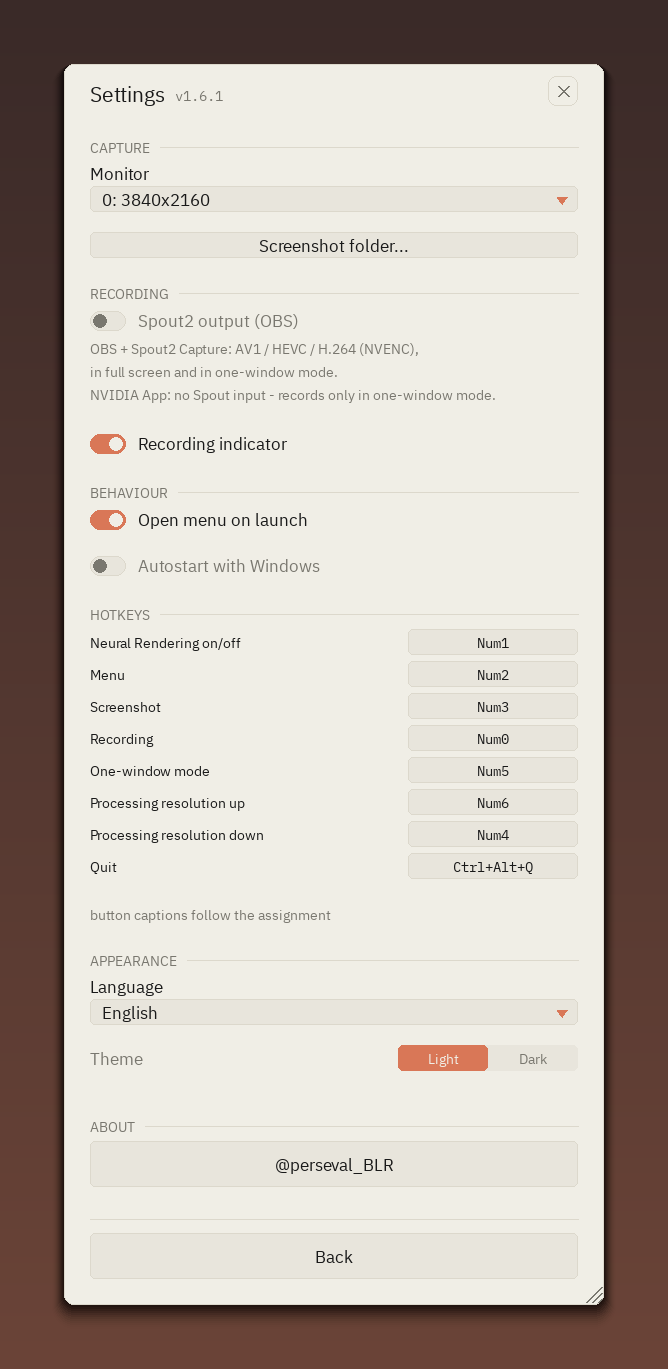
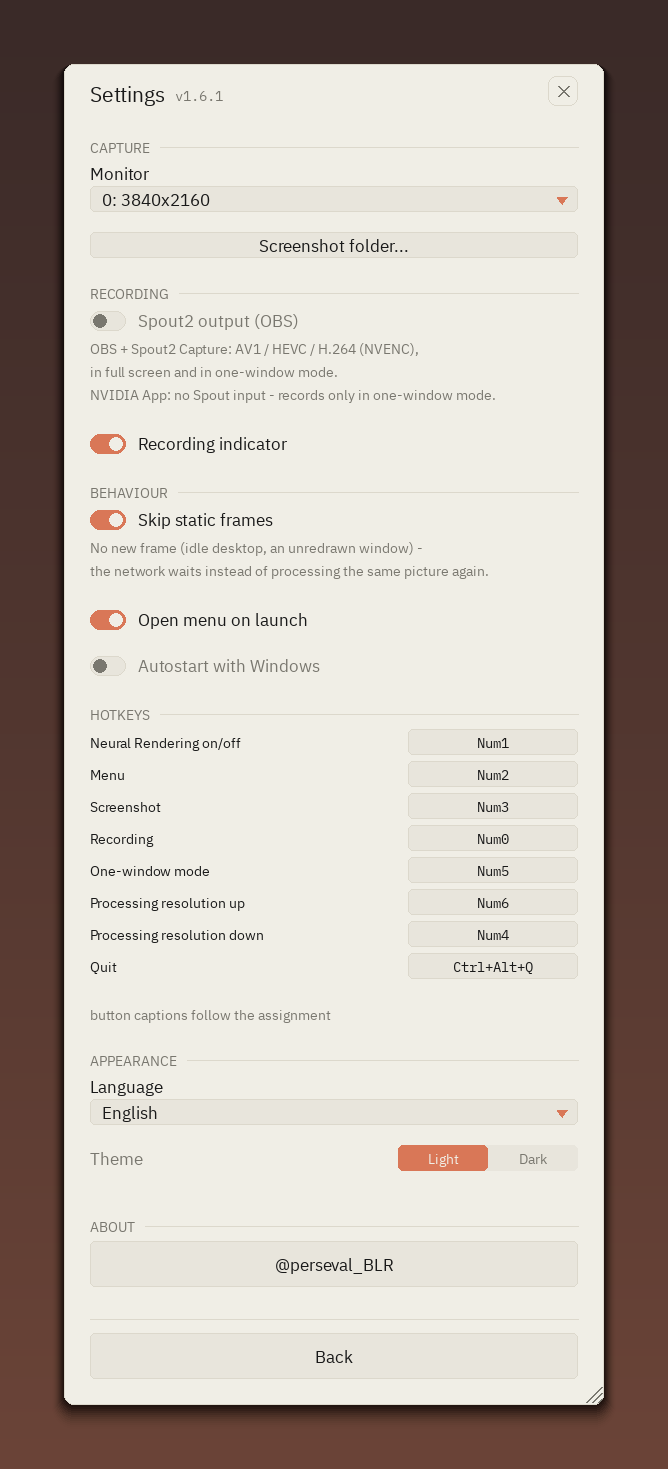
ui: the sliders stay on the page, Quit is one centred line, skip static moves
Three corrections to yesterday's layout, all from using it.

**The fine-tuning fold goes.** Folding the four parameter sliders away made
the page shorter and the sliders harder to reach - they are the point of the
profile section, not an advanced corner of it. They are back on the page and
the fold, its item kind and its string are gone.

**Quit is its name, centred.** The key and the explanation under it turned
one button into a three-line paragraph in the footer. The danger edge it got
yesterday already says what kind of button it is.

**Skip static frames moves to the settings**, into Behaviour. It is set once
and forgotten, which is what that page is for; the main page keeps what a
session actually touches.

66 checks green, GUI cycle clean.

diff --git a/overlay_ui.py b/overlay_ui.py
@@ -295,9 +295,6 @@ class OverlayMenu:
         self.hotkeys: dict = {}
         self._sections: list = []
         self._hint_rel = pygame.Rect(0, 0, 0, 0)
-        #: Is the fine-tuning fold open? The menu's own state - it never
-        #: leaves and is not worth a line in config.json.
-        self.tuning_open = False
         self._rule_rel = pygame.Rect(0, 0, 0, 0)
         # What is under the cursor: "title" (draggable) or "grip" (resizable).
         # Without the highlight these zones are invisible and impossible to
@@ -628,6 +625,14 @@ class OverlayMenu:
                    bool(self.state.get("rec_indicator", True)))
 
             section(s["sec_behaviour"])
+            # Idle screens: no new frame arrives (the desktop did not change,
+            # the window did not redraw) - the network waits instead of
+            # chewing the same picture again. No visual price, a real one on
+            # an idle desktop. Set once and forgotten, which is why it lives
+            # here and not on the main page.
+            toggle("skip_static", s.get("skip_static", "Skip static frames"),
+                   bool(self.state.get("skip_static", True)),
+                   hint=s.get("skip_static_hint", ""))
             toggle("open_on_start", s["open_on_start"],
                    bool(self.state.get("open_on_start")))
             toggle("autostart", s.get("autostart", "Autostart with Windows"),
@@ -719,14 +724,6 @@ class OverlayMenu:
                    value_text=value_text,
                    ends=(s.get("nr_res_low", ""), s.get("nr_res_high", "")))
 
-            # Idle screens: no new frame arrives (the desktop did not change,
-            # the window did not redraw) - the network waits instead of
-            # chewing the same picture again. No visual price, a real one on
-            # an idle desktop (issue #31 territory). A per-frame flag.
-            toggle("skip_static", s.get("skip_static", "Skip static frames"),
-                   bool(self.state.get("skip_static", True)),
-                   hint=s.get("skip_static_hint", ""))
-
             # What is being processed - the first question anyone has, and
             # until now the only one answered on another page. The segment
             # sends what the Actions buttons used to send; the list of
@@ -754,17 +751,9 @@ class OverlayMenu:
             section(s["sec_effect"])
             choice("profile", s["profile"], str(self.state.get("profile", "")),
                    list(self.state.get("profiles") or []))
-            # The four sliders and the preset buttons fold away. Most
-            # sessions pick a profile and never touch them, and open they
-            # cost a third of the page.
-            items.append(Item("disclose", "tuning",
-                              pygame.Rect(pad, cy, inner_w, ctrl_h),
-                              value=1.0 if self.tuning_open else 0.0,
-                              extra={"label": s["tuning"]}))
-            cy += ctrl_h + gap
             params = self.state.get("params") or {}
             defaults = self.state.get("param_defaults") or {}
-            for key in (PARAM_KEYS if self.tuning_open else ()):
+            for key in PARAM_KEYS:
                 lo = SKIN_MIN if key == "skin_structure" else PARAM_MIN
                 val = float(params.get(key, 0.0))
                 slider(key, lo, PARAM_MAX, val, s[key], value_text=f"{val:.2f}",
@@ -776,8 +765,7 @@ class OverlayMenu:
             bw = (inner_w - bgap) // 2
             for idx, (key, label) in enumerate((
                     ("save_preset", s["save_preset"]),
-                    ("delete_preset", s["delete_preset"])) if self.tuning_open
-                    else ()):
+                    ("delete_preset", s["delete_preset"]))):
                 items.append(Item("button", key,
                                   pygame.Rect(pad + idx * (bw + bgap),
                                               cy, bw, act_h),
@@ -785,8 +773,7 @@ class OverlayMenu:
                                          "filled": False,
                                          "disabled": key == "delete_preset"
                                          and not self.state.get("preset_active")}))
-            if self.tuning_open:
-                cy += act_h + self._u(8)
+            cy += act_h + self._u(8)
 
             section(s["sec_compare"])
             split_val = float(self.state.get("split", 0.0))
@@ -832,13 +819,12 @@ class OverlayMenu:
                                      "filled": False}))
             cy += act_h + pad
         else:
-            exit_h = self._u(EXIT_H)
+            # The name and nothing else, centred: the key and the
+            # explanation under it turned one button into a paragraph.
             items.append(Item("action", "exit",
-                              pygame.Rect(pad, cy, inner_w, exit_h),
-                              extra={"label": s["exit_full"],
-                                     "hotkey": self.hotkeys.get("quit", ""),
-                                     "note": s["exit_note"], "danger": True}))
-            cy += exit_h + pad
+                              pygame.Rect(pad, cy, inner_w, act_h),
+                              extra={"label": s["exit_full"], "danger": True}))
+            cy += act_h + pad
 
         # The content height is known. The panel may be shorter - then the
         # content scrolls: at 1080p a full panel took up almost the whole
@@ -1111,9 +1097,6 @@ class OverlayMenu:
                     if cr.collidepoint(event.pos) and idx < len(item.payload or []):
                         out.extend(self._pick(item.key, str(item.payload[idx])))
                         break
-            elif item.kind == "disclose":
-                # A fold is the menu's own business: nothing leaves it.
-                self.tuning_open = not self.tuning_open
             elif item.kind == "toggle":
                 out.append(("nr",) if item.key == "nr" else ("toggle", item.key))
             elif item.kind == "button":
@@ -1430,7 +1413,6 @@ class OverlayMenu:
             {"toggle": self._draw_toggle, "slider": self._draw_slider,
              "choice": self._draw_choice, "button": self._draw_button,
              "segmented": self._draw_segmented,
-             "disclose": self._draw_disclose,
              "info": self._draw_info,
              "action": self._draw_action,
              "hotkey": self._draw_hotkey,
@@ -1825,25 +1807,6 @@ class OverlayMenu:
                                           _rgb(self.c["muted"]))
             surface.blit(img, (hint.x, hint.y))
 
-
-    def _draw_disclose(self, surface, item: Item, s: dict) -> None:
-        """A fold: a triangle and a label, no state beyond open/closed."""
-        open_ = item.value > 0.5
-        col = self.c["text"] if open_ else self.c["muted"]
-        size = self._u(8)
-        cx = item.rect.x + size
-        cy = item.rect.centery
-        if open_:
-            points = [(cx - size, cy - size // 2), (cx + size, cy - size // 2),
-                      (cx, cy + size)]
-        else:
-            points = [(cx - size // 2, cy - size), (cx + size, cy),
-                      (cx - size // 2, cy + size)]
-        pygame.draw.polygon(surface, _rgb(col), points)
-        label = self._clip(self._font, item.extra.get("label", ""), _rgb(col),
-                           item.rect.w - self._u(28))
-        surface.blit(label, (item.rect.x + self._u(28),
-                             cy - label.get_height() // 2))
 
     def _draw_info(self, surface, item: Item, s: dict) -> None:
         """A read-only line: what on the left, how big on the right."""

diff --git a/i18n.py b/i18n.py
@@ -50,7 +50,6 @@ STRINGS = {
         "sec_resolution": "resolution",
         "sec_effect": "effect",
         "sec_source": "source",
-        "tuning": "Fine tuning",
         "sec_view": "appearance",
         "sec_actions": "actions",
         "sec_capture": "capture",
@@ -168,7 +167,6 @@ STRINGS = {
         "sec_resolution": "разрешение",
         "sec_effect": "эффект",
         "sec_source": "источник",
-        "tuning": "Тонкая настройка",
         "sec_view": "вид",
         "sec_actions": "действия",
         "sec_capture": "захват",
@@ -286,7 +284,6 @@ STRINGS = {
         "sec_resolution": "résolution",
         "sec_effect": "effet",
         "sec_source": "source",
-        "tuning": "Réglage fin",
         "sec_view": "apparence",
         "sec_actions": "actions",
         "sec_capture": "capture",
@@ -404,7 +401,6 @@ STRINGS = {
         "sec_resolution": "auflösung",
         "sec_effect": "Effekt",
         "sec_source": "Quelle",
-        "tuning": "Feineinstellung",
         "sec_view": "darstellung",
         "sec_actions": "aktionen",
         "sec_capture": "aufnahme",
@@ -522,7 +518,6 @@ STRINGS = {
         "sec_resolution": "resolución",
         "sec_effect": "efecto",
         "sec_source": "fuente",
-        "tuning": "Ajuste fino",
         "sec_view": "apariencia",
         "sec_actions": "acciones",
         "sec_capture": "captura",
@@ -640,7 +635,6 @@ STRINGS = {
         "sec_resolution": "risoluzione",
         "sec_effect": "effetto",
         "sec_source": "sorgente",
-        "tuning": "Regolazione fine",
         "sec_view": "aspetto",
         "sec_actions": "azioni",
         "sec_capture": "acquisizione",
@@ -758,7 +752,6 @@ STRINGS = {
         "sec_resolution": "resolução",
         "sec_effect": "efeito",
         "sec_source": "fonte",
-        "tuning": "Ajuste fino",
         "sec_view": "aparência",
         "sec_actions": "ações",
         "sec_capture": "captura",
@@ -876,7 +869,6 @@ STRINGS = {
         "sec_resolution": "rozdzielczość",
         "sec_effect": "efekt",
         "sec_source": "źródło",
-        "tuning": "Dostrajanie",
         "sec_view": "wygląd",
         "sec_actions": "akcje",
         "sec_capture": "przechwytywanie",
@@ -994,7 +986,6 @@ STRINGS = {
         "sec_resolution": "роздільна здатність",
         "sec_effect": "ефект",
         "sec_source": "джерело",
-        "tuning": "Тонке налаштування",
         "sec_view": "вигляд",
         "sec_actions": "дії",
         "sec_capture": "захоплення",
@@ -1112,7 +1103,6 @@ STRINGS = {
         "sec_resolution": "分辨率",
         "sec_effect": "效果",
         "sec_source": "来源",
-        "tuning": "微调",
         "sec_view": "外观",
         "sec_actions": "操作",
         "sec_capture": "捕获",
@@ -1230,7 +1220,6 @@ STRINGS = {
         "sec_resolution": "解像度",
         "sec_effect": "エフェクト",
         "sec_source": "ソース",
-        "tuning": "詳細調整",
         "sec_view": "外観",
         "sec_actions": "操作",
         "sec_capture": "キャプチャ",
@@ -1348,7 +1337,6 @@ STRINGS = {
         "sec_resolution": "해상도",
         "sec_effect": "효과",
         "sec_source": "소스",
-        "tuning": "세부 조정",
         "sec_view": "모양",
         "sec_actions": "작업",
         "sec_capture": "캡처",

diff --git a/tests/test_ui_buttons.py b/tests/test_ui_buttons.py
@@ -304,22 +304,9 @@ def main() -> int:
         if out != [("button", "exit")]:
             failures.append(f"exit: expected [('button', 'exit')], got {out}")
 
-    # 6. The sliders emit their commands. The four parameter sliders and the
-    #    preset buttons live behind the fine-tuning fold - open it first,
-    #    which is also the check that the fold works.
+    # 6. The sliders emit their commands.
     menu.layout(3840, 2160)
     paint(menu)
-    fold = find(menu, "disclose", "tuning")
-    if fold is None:
-        failures.append("no fine-tuning fold on the main page")
-    else:
-        if find(menu, "slider", "intensity") is not None:
-            failures.append("the parameter sliders are visible while folded")
-        click(menu, fold)
-        menu.layout(3840, 2160)
-        paint(menu)
-        if find(menu, "slider", "intensity") is None:
-            failures.append("the fold did not open the parameter sliders")
     for key, want_prefix in (("intensity", "param"), ("split", "split"),
                              ("nr_res", "nr_res")):
         sl = find(menu, "slider", key)
